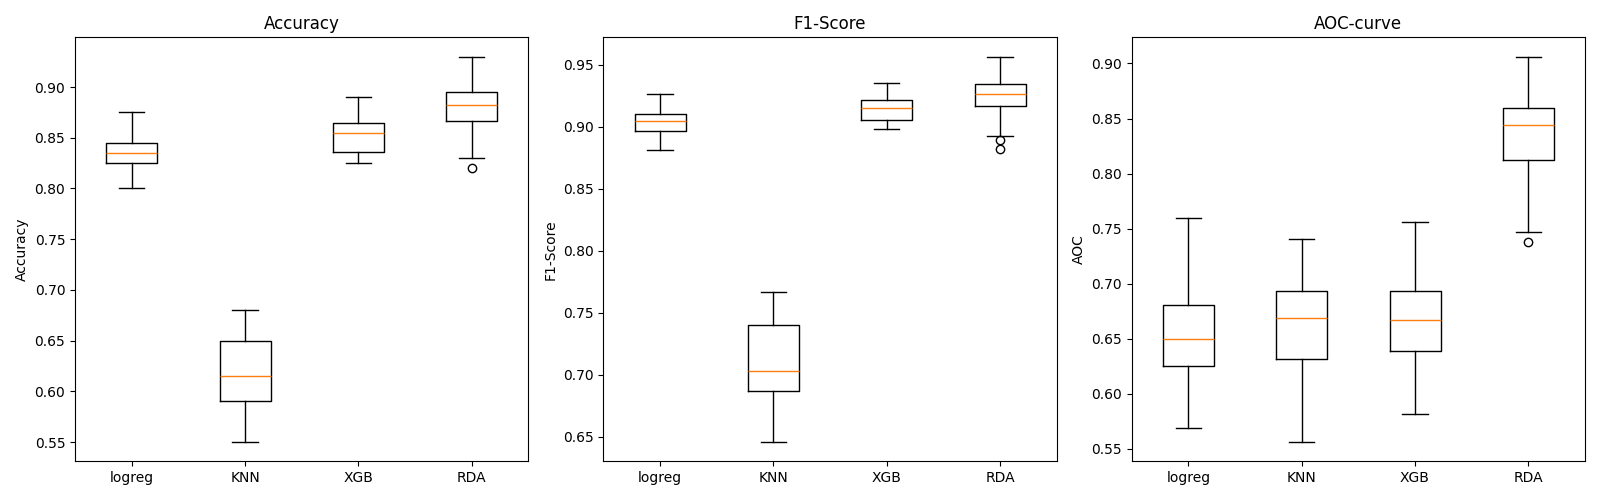
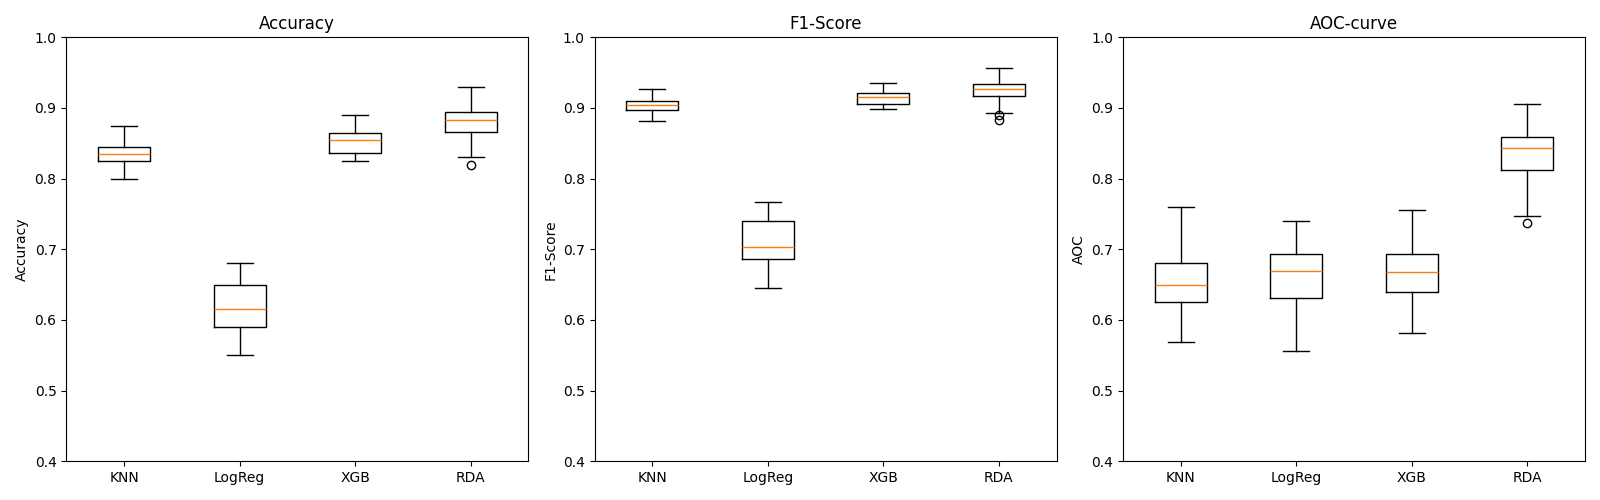
plotted all the images

diff --git a/project3/plot_images.py b/project3/plot_images.py
@@ -4,7 +4,7 @@ import numpy as np
 
 
 def load_data(paths):
-    names = ["logreg", "KNN", "XGB", "RDA"]
+    names = ["KNN", "LogReg", "XGB", "RDA"]
     array_dict = {}
     for name, path in zip(names, paths):
         array_dict[name] = np.load("models/" + path)
@@ -15,16 +15,16 @@ def plot_performance(paths, samples):
 
     data = load_data(paths)
     fig, ax = plt.subplots(1, 3, figsize=(16, 5))
-    names = ["logreg", "KNN", "XGB", "RDA"]
+    names = ["KNN", "LogReg", "XGB", "RDA"]
     accuracy = np.vstack(
-        [data["logreg"][:, 0], data["KNN"][:, 0], data["XGB"][:, 0], data["RDA"][:, 0]]
+        [data["KNN"][:, 0], data["LogReg"][:, 0], data["XGB"][:, 0], data["RDA"][:, 0]]
     )
     f1 = np.vstack(
-        [data["logreg"][:, 1], data["KNN"][:, 1], data["XGB"][:, 1], data["RDA"][:, 1]]
+        [data["KNN"][:, 1], data["LogReg"][:, 1], data["XGB"][:, 1], data["RDA"][:, 1]]
     )
 
     aoc = np.vstack(
-        [data["logreg"][:, 2], data["KNN"][:, 2], data["XGB"][:, 2], data["RDA"][:, 2]]
+        [data["KNN"][:, 2], data["LogReg"][:, 2], data["XGB"][:, 2], data["RDA"][:, 2]]
     )
     ax[0].boxplot(accuracy.T, tick_labels=names)
     ax[1].boxplot(f1.T, tick_labels=names)
@@ -34,6 +34,10 @@ def plot_performance(paths, samples):
     ax[1].set_ylabel("F1-Score")
     ax[2].set_ylabel("AOC")
 
+    ax[0].set_ylim(0.4, 1)
+    ax[1].set_ylim(0.4, 1)
+    ax[2].set_ylim(0.4, 1)
+
     ax[0].set_title("Accuracy")
     ax[1].set_title("F1-Score")
     ax[2].set_title("AOC-curve")
@@ -42,48 +46,91 @@ def plot_performance(paths, samples):
     fig.savefig(f"figures_part1/preformace_{samples}")
 
 
-def plot_p_matrix(model_paths, samples):
+def plot_bayes_analysis(model_paths, samples):
 
-    accuracy = get_p_scores(model_paths, "accuracy", 10)
-    f1 = get_p_scores(model_paths, "f1-score", 10)
-    aoc = get_p_scores(model_paths, "AOC", 10)
+    acc_left, acc_rope, acc_right = get_p_scores(
+        model_paths, "accuracy", 10, rope=0.052
+    )
+    f1_left, f1_rope, f1_right = get_p_scores(model_paths, "f1-score", 10, rope=0.0821)
+    aoc_left, aoc_rope, aoc_right = get_p_scores(model_paths, "AOC", 10, rope=0.052)
 
-    fig, ax = plt.subplots(1, 3, figsize=(16, 5))
+    acc_stacks = {
+        "P(Left model > Right model)": acc_left,
+        "P(Left model = Right model)": acc_rope,
+        "P(Right model < Right model)": acc_right,
+    }
+    f1_stacks = {
+        "P(Left model > Right model)": f1_left,
+        "P(Left model = Right model)": f1_rope,
+        "P(Right model < Right model)": f1_right,
+    }
+    aoc_stacks = {
+        "P(Left model > Right model)": aoc_left,
+        "P(Left model = Right model)": aoc_rope,
+        "P(Right model < Right model)": aoc_right,
+    }
 
-    names = ["logreg", "KNN", "XGB", "RDA"]
+    fig, ax = plt.subplots(1, 3, figsize=(23, 5))
 
-    ax[0].matshow(accuracy)
-    ax[0].set_xticks(range(len(names)))
-    ax[0].set_xticklabels(names)
+    names = [
+        "KNN vs LogReg",
+        "KNN vs XGB",
+        "KNN vs RDA",
+        "LogReg vs XGB",
+        "LogReg vs RDA",
+        "XGB vs RDA",
+    ]
+    x = np.arange(len(names))
+    width = 0.2
+    multiplier = 0
+    for attribute, measurement in acc_stacks.items():
+        offset = width * multiplier
+        rects = ax[0].bar(x + offset, measurement, width, label=attribute)
+        # ax[0].bar_label(rects, padding=1)
+        multiplier += 1
 
-    ax[0].set_yticks(range(len(names)))
-    ax[0].set_yticklabels(names)
+    multiplier = 0
+    for attribute, measurement in f1_stacks.items():
+        offset = width * multiplier
 
-    ax[1].matshow(f1)
-    ax[1].set_xticks(range(len(names)))
-    ax[1].set_xticklabels(names)
+        rects = ax[1].bar(x + offset, measurement, width, label=attribute)
+        # ax[1].bar_label(rects, padding=1)
+        multiplier += 1
 
-    ax[1].set_yticks(range(len(names)))
-    ax[1].set_yticklabels(names)
+    multiplier = 0
+    for attribute, measurement in aoc_stacks.items():
+        offset = width * multiplier
 
-    ax[2].mathshow(aoc)
-    ax[2].set_xticks(range(len(names)))
-    ax[2].set_xticklabels(names)
+        rects = ax[2].bar(x + offset, measurement, width, label=attribute)
+        # ax[2].bar_label(rects, padding=1)
+        multiplier += 1
 
-    ax[2].set_yticks(range(len(names)))
-    ax[2].set_yticklabels(names)
+    ax[0].set_xticks(x + width, names)
+    ax[1].set_xticks(x + width, names)
+    ax[2].set_xticks(x + width, names)
+
+    ax[0].set_ylim(0, 1.3)
+    ax[1].set_ylim(0, 1.3)
+    ax[2].set_ylim(0, 1.3)
+
+    ax[0].set_ylabel("Probability")
+    ax[1].set_ylabel("Probability")
+    ax[2].set_ylabel("Probability")
 
     ax[0].set_title("Accuracy")
     ax[1].set_title("F1-Score")
-    ax[2].set_title("AOC-curve")
+    ax[2].set_title("AOC")
 
-    fig.suptitle("P(model(i) > model(j))")
+    ax[0].legend()
+    ax[1].legend()
+    ax[2].legend()
+
     fig.tight_layout()
-    fig.savefig(f"figures_part2/p_scores_{samples}.pdf")
+    fig.savefig(f"./figures_part2/barchart_{samples}.png")
 
 
 def main():
-    samples = 250
+    samples = 500
     model_paths = [
         f"KNN_{samples}.npy",
         f"LogReg_{samples}.npy",
@@ -91,6 +138,7 @@ def main():
         f"RDA_{samples}.npy",
     ]
     plot_performance(model_paths, samples)
+    # plot_bayes_analysis(model_paths, samples)
 
 
 if __name__ == "__main__":

diff --git a/project3/performance_score.py b/project3/performance_score.py
@@ -1,23 +1,24 @@
 from baycomp import two_on_single
+from itertools import combinations
 import numpy as np
 
 
-def get_p_scores(models_paths, performance_score, runs, rope=0.01):
-
+def get_p_scores(model_paths, performance_score, runs, rope=0.01):
     index = get_performance_idx(performance_score)
-    matrix = np.zeros((4, 4))
+    p_lefts = []
+    p_ropes = []
+    p_rights = []
+    comparisons = combinations(model_paths, 2)
 
-    for idx1, path1 in enumerate(models_paths):
+    for path1, path2 in comparisons:
         model_1 = np.load("models/" + path1)[:, index]
-        print(path1)
-        print(model_1)
-        for idx2, path2 in enumerate(models_paths):
-            model_2 = np.load("models/" + path2)[:, index]
-            p_left, p_rope, p_right = two_on_single(
-                model_1, model_2, rope=rope, runs=runs
-            )
-            matrix[idx1, idx2] = p_rope
-    return matrix
+        model_2 = np.load("models/" + path2)[:, index]
+        p_left, p_rope, p_right = two_on_single(model_1, model_2, rope=rope, runs=runs)
+        p_lefts.append(p_left)
+        p_ropes.append(p_rope)
+        p_rights.append(p_right)
+
+    return p_lefts, p_ropes, p_rights
 
 
 def get_performance_idx(performance_score):
@@ -33,18 +34,23 @@ def get_performance_idx(performance_score):
 
 
 def get_rope_size(model_paths, performance_score, runs):
-    ropes = np.arange(0.0001, 0.1, 0.001)
+    ropes = np.arange(0.0001, 0.2, 0.001)
     index = get_performance_idx(performance_score)
+    comparisons = combinations(model_paths, 2)
+
     for rope in ropes:
         saved_p_ropes = []
-        for path1 in model_paths:
+        comparisons = combinations(model_paths, 2)
+        for path1, path2 in comparisons:
+
             model_1 = np.load("models/" + path1)[:, index]
-            for path2 in model_paths:
-                model_2 = np.load("models/" + path2)[:, index]
-                _, p_rope, _ = two_on_single(model_1, model_2, rope=rope, runs=runs)
-                saved_p_ropes.append(p_rope)
+            model_2 = np.load("models/" + path2)[:, index]
+
+            _, p_rope, _ = two_on_single(model_1, model_2, rope=rope, runs=runs)
+            saved_p_ropes.append(p_rope)
+
         mean_p_ropes = np.mean(saved_p_ropes)
-        if mean_p_ropes > 0.99:
+        if mean_p_ropes > 0.95:
             best_rope = rope
             print(f"Good rope was found: {best_rope}")
             return best_rope
@@ -57,16 +63,15 @@ def get_rope_size(model_paths, performance_score, runs):
 def main():
     samples = 1000
     runs = 10
-    rope = 0.00000001
-    models_paths = [
+    model_paths = [
         f"KNN_{samples}_random.npy",
         f"LogReg_{samples}_random.npy",
         f"XGB_{samples}_random.npy",
         f"RDA_{samples}_random.npy",
     ]
-    performance_score = "accuracy"
-    matrix = get_p_scores(models_paths, performance_score, runs, rope=rope)
-    print(matrix)
+    performance_score = "AOC"
+    # matrix = get_p_scores(models_paths, performance_score, runs, rope=rope)
+    get_rope_size(model_paths, performance_score, runs)
 
 
 if __name__ == "__main__":
